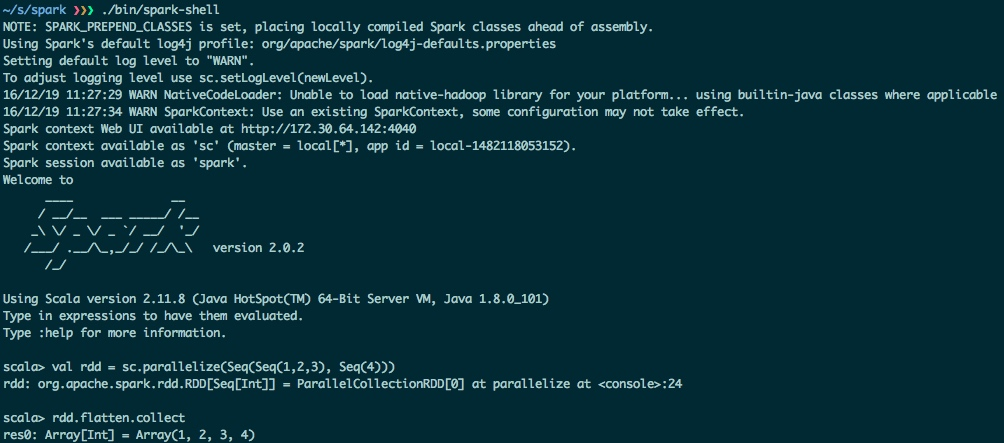
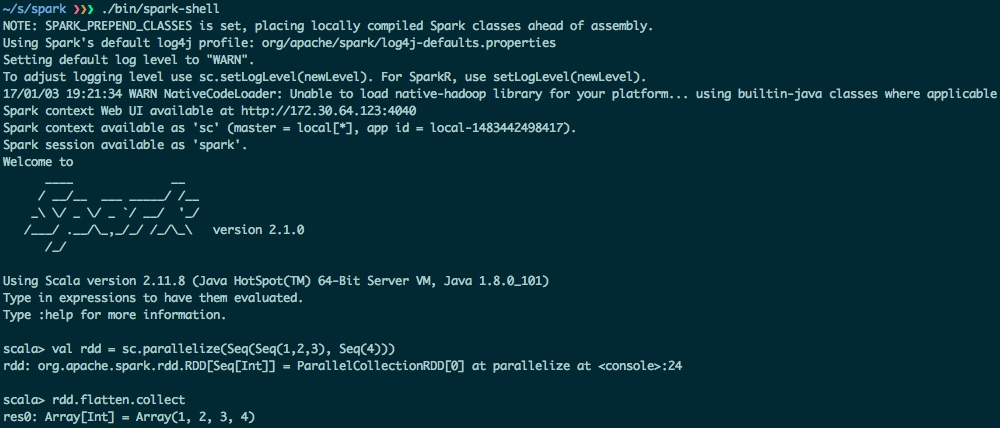
update rdd-abstraction to spark 2.1.0

diff --git a/rdd-abstraction.md b/rdd-abstraction.md
@@ -263,7 +263,7 @@ def flatten[U: ClassTag](implicit asTraversable: T => TraversableOnce[U]): RDD[U
 开始测试代码了，打开你的Terminal，macOS上我用[iTerm2](https://www.iterm2.com/)
 
 ```
-git checkout -b SN-add-rdd-flatten
+git checkout -b SN-add-rdd-flatten-tag-210
 build/sbt clean package
 // 复制flatten的实现到RDD.scala里面，比如flatMap函数下面
 export SPARK_PREPEND_CLASSES=true
@@ -314,7 +314,7 @@ def flatten[U: ClassTag](implicit asTraversable: T => TraversableOnce[U]): RDD[U
 }
 ```
 
-完整代码可以参考我创建的`SN-add-rdd-flatten`branch：https://github.com/linbojin/spark/commit/2b389082a529da570d15d41c7687d6139fe0926f
+完整代码可以参考我创建的`SN-add-rdd-flatten-tag-210`branch：https://github.com/linbojin/spark/commit/5abe3fda10f687f07aafe15bd3f96aab908f2107
 
 ### 使用RDD隐式转换
 上面的实现，个人觉得已经OK，但是有一个不是”问题”的问题，如果你把flatten作用到一个不适用的RDD上面：
@@ -384,7 +384,7 @@ implicit def rddToTraversableRDDFunctions[U](rdd: RDD[Seq[U]])
 
 ![](media/14821230664592.jpg)
 
-这部分完整代码，可以参考我的这个commit: https://github.com/linbojin/spark/commit/6c8755f16d264fb9aaa2911c27f24885f412988a
+这部分完整代码，可以参考我的这个commit: https://github.com/linbojin/spark/commit/f9dd9af894fdab98f2512faae091f1be70cab0ac
 
 感谢你阅读完我这么长的笔记，也恭喜你现在已经具备开发RDD API函数的能力啦。
 
